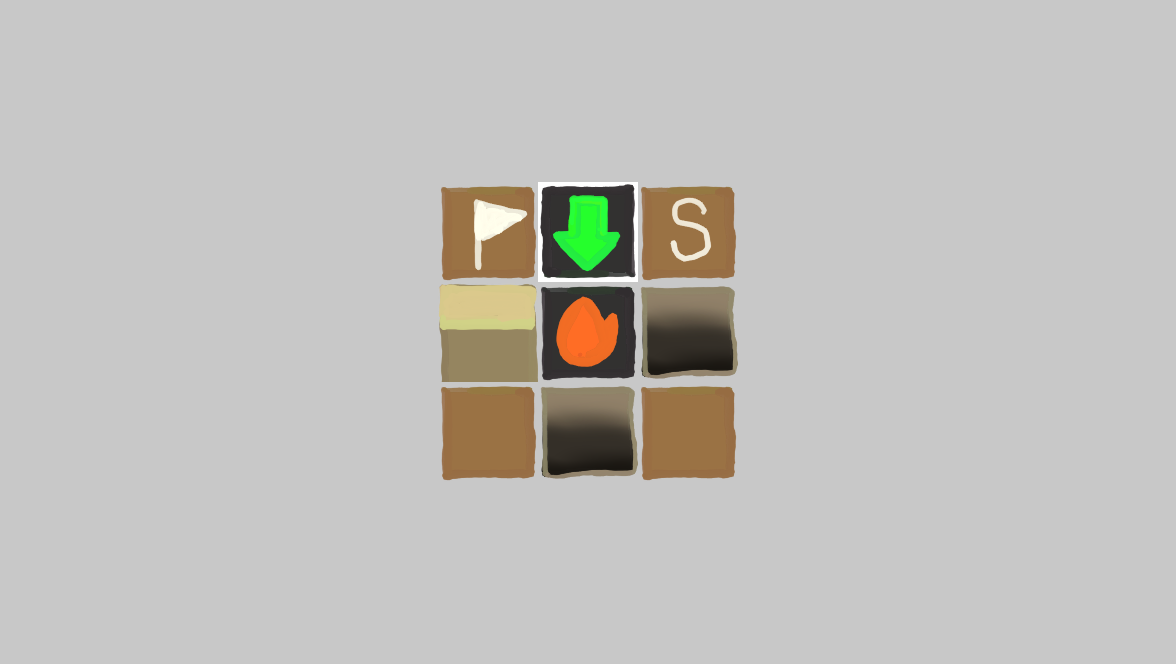
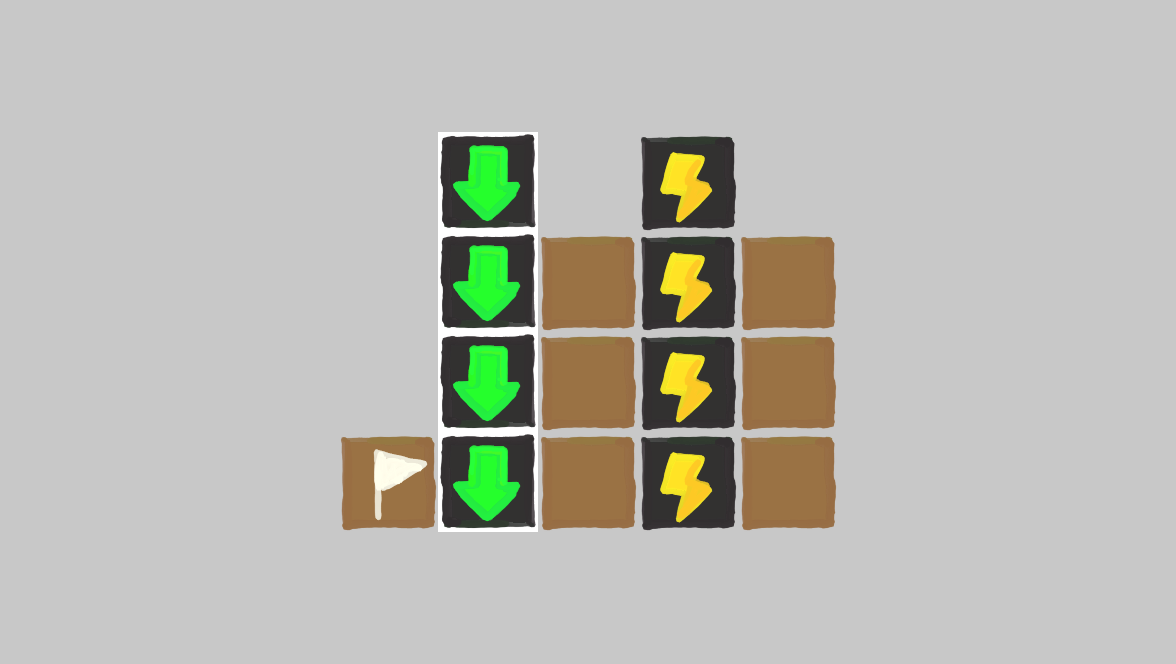
bugがなおらない

Changed region(s): [[0.2755, 0.1807, 0.7347, 0.8133]]

diff --git a/main.py b/main.py
@@ -20,7 +20,7 @@ sc_width = pygame.display.get_window_size()[0]
 sc_height = pygame.display.get_window_size()[1]
 
 #Player
-stage_num = 2
+stage_num = 4
 selected_stage = stageMap.stage_gene(stage_num,sc_width, sc_height)[0]
 
 chipimage = n
@@ -44,15 +44,15 @@ def tiling_chip(stage_num):
     gridsizey = len(map)
     t = "O"
     object_chip = map
-    for i in range(gridsizex):
-        for d in range(gridsizey):
-            t = map[d][i]
+    for x in range(gridsizex):
+        for y in range(gridsizey):
+            t = map[y][x]
             tile = create_chip_image(t) 
             tileX = tile.get_width()
             tileY = tile.get_height()
-            object_chip[d][i] = sprite_chip_class(t)
+            object_chip[y][x] = sprite_chip_class(t)
 
-            screen.blit(tile,(margin[0]+tileX*i, margin[1] + tileY*d))
+            screen.blit(tile,(margin[1]+tileX*x, margin[0] + tileY*y))
 
 class sprite_chip_class(pygame.sprite.Sprite):
     def __init__(self, chip_type) -> None:
@@ -89,16 +89,11 @@ class sprite_player_class(pygame.sprite.Sprite):
         self.rect = self.playerImage.get_rect()
         self.player_start_point = [6,4] # grid
         self.pixel_imalocation = [0, 0]
-        self.player_direction = [1,0] # Up[0,-1], Down[0,1], Left[-1,0], Right[1,0]
+        self.player_direction = [1,0] # [Y, X]で表記するUp[-1,0], Down[1,0], Left[0,-1], Right[0,1]
         self.player_status = ""
         self.player_HP = 20
 
-    # def player_move(self, x, y):
-    #     # ほぼ描画しかしてない
-    #     location = self.hamidasanai((x, y))
-    #     margin = stageMap.stage_gene(stage_num, sc_width, sc_height)[1]
-    #     screen.blit(self.playerImages,(location[0] + margin[0], location[1] + margin[1]))
-    #     # return location
+
     def draw(self):
         screen.blit(self.playerImage,self.rect)
 
@@ -108,46 +103,52 @@ class sprite_player_class(pygame.sprite.Sprite):
         chipImage = pygame.image.load('N.png')
         chipImage = pygame.transform.scale(chipImage,(100,100))
         speed  = 5
+        # 変数を計算する
         chipW = chipImage.get_width()
         chipH = chipImage.get_height()
         map_gridX = len(stage[0])
         map_gridY = len(stage)
         standingPointX = 0
         standingPointY = 0
+        # マス座標をステージのサイズに制限する
         location[0] = max(location[0], 1)
         location[0] = min(location[0], map_gridX)
         location[1] = max(location[1], 1)
         location[1] = min(location[1], map_gridY)
-
-        standingPointX = location[0]*chipW-(chipW/2)
-        standingPointY = location[1]*chipH-(chipH/3)
+        # ここからピクセル座標を計算し始める
+        # チップの画像サイズをもとにして計算
+        # 画像の右下を基準にして-(chipH/3)-(chipW/2)
+        # はマップチップの上に立ってるように見せかけるためにずらしてる
+        standingPointY = location[0]*chipW-(chipW/2)
+        standingPointX = location[1]*chipH-(chipH/3)
+        # 描画位置のために右上になるように計算する
         standingPointX -= (player_dummy_image.get_width()/2)
         standingPointY -= player_dummy_image.get_height()
-        mokuhyou = [standingPointX,standingPointY]
+        mokuhyou = [standingPointY,standingPointX]
         ret_mokuhyou = mokuhyou
         imalocation = self.pixel_imalocation
-        imalocationX = self.pixel_imalocation[0]
-        imalocationY = self.pixel_imalocation[1]
+        imalocationY = self.pixel_imalocation[0]
+        imalocationX = self.pixel_imalocation[1]
 
         mokuhyou[0] = mokuhyou[0] - imalocation[0]
-        imalocationX += numpy.sign(mokuhyou[0]) * min(abs(mokuhyou[0]), speed)
+        imalocationY += numpy.sign(mokuhyou[0]) * min(abs(mokuhyou[0]), speed)
         mokuhyou[1] = mokuhyou[1] - imalocation[1]
-        imalocationY += numpy.sign(mokuhyou[1]) * min(abs(mokuhyou[1]), speed)
+        imalocationX += numpy.sign(mokuhyou[1]) * min(abs(mokuhyou[1]), speed)
 
         margin = stageMap.stage_gene(stage_num, sc_width, sc_height)[1]
         self.rect = (imalocationX+margin[0], imalocationY+margin[1])
-        return (imalocationX, imalocationY), ret_mokuhyou
+        return (imalocationX, imalocationX), ret_mokuhyou
 
     def find_player_destination(self):
         # 現在位置、プレイヤーの向き、マップチップから目標マス座標を決める
         grid_location = []
         location = self.location
         stage  = selected_stage
-
-        print(location,stage)
-        zokusei = stageMap.chip_effect(stage[location[0]-1][location[1]-1])
-        if zokusei[0] == "turn":
-            self.player_direction = zokusei[1]
+        # print(location,stage)
+        zokusei = stageMap.chip_effect(stage[location[1]-1][location[0]-1])
+        testdback(str(zokusei), 4)
+        # if zokusei[0] == "turn":
+        #     self.player_direction = zokusei[1]
 
         direction = self.player_direction
         length = max(len(stage), len(stage[0]))
@@ -157,7 +158,10 @@ class sprite_player_class(pygame.sprite.Sprite):
                 location[0] += direction[0] 
                 location[1] += direction[1] 
                 chip = stage[location[0]][location[1]]
-                # text =  str("ある", chip, location)
+                zoc = stageMap.chip_effect(chip)
+                if zokusei[0] == "turn":
+                    self.player_direction = zokusei[1]
+
 
             except Exception as e:
                 continue
@@ -165,9 +169,10 @@ class sprite_player_class(pygame.sprite.Sprite):
         return grid_location
 
     def hamidasanai(self, location):
+        # [Y,X]
         player_dummy_image = self.playerImage
-        playerX = location[0]
-        playerY = location[1]
+        playerY = location[0]
+        playerX = location[1]
         if playerX <= 0:
             playerX = 0
         elif playerX>= sc_width- player_dummy_image.get_width():
@@ -188,10 +193,10 @@ class sprite_player_class(pygame.sprite.Sprite):
         startmap = stageMap.stage_gene(stage_num,sc_height,sc_width)[0]
         gridsizex = len(startmap[0])
         gridsizey = len(startmap)    
-        for i in range(gridsizex):
-            for d in range(gridsizey):
-                if startmap[d][i] == s:
-                    self.player_start_point = [1+i,1+d] #今はあれだけど逆だからあとで直してね
+        for x in range(gridsizex):
+            for y in range(gridsizey):
+                if startmap[y][x] == s:
+                    self.player_start_point = [y+1,x+1] #今はあれだけど逆だからあとで直してね
 
     def update(self):
 
@@ -205,9 +210,9 @@ class sprite_player_class(pygame.sprite.Sprite):
 
 
 def  testdback( text, gyou=1):
-    mozi = pygame.font.Font(None,50)
+    mozi = pygame.font.Font(None,40)
     mozimozi = mozi.render(text, True,(0,0,0))
-    screen.blit(mozimozi,[50,60*gyou])
+    screen.blit(mozimozi,[20,50*gyou])
 
 def puzzle_select():
     # 後でちゃんと書いてね
@@ -237,13 +242,13 @@ while running:
             if event.key == pygame.K_SPACE:
                 puzzle_state = 1 # 適当に書いている
             if event.key == pygame.K_LEFT:
-                object_player.player_direction = [-1,0] 
-            elif event.key == pygame.K_RIGHT:
-                object_player.player_direction = [1,0] 
-            elif event.key == pygame.K_UP:          
                 object_player.player_direction = [0,-1] 
-            elif event.key == pygame.K_DOWN:      
+            elif event.key == pygame.K_RIGHT:
                 object_player.player_direction = [0,1] 
+            elif event.key == pygame.K_UP:          
+                object_player.player_direction = [-1,0] 
+            elif event.key == pygame.K_DOWN:      
+                object_player.player_direction = [1,0] 
         if event.type == pygame.KEYUP:
             if event.key == pygame.K_LEFT or event.key == pygame.K_RIGHT :
                 continue

diff --git a/stageMap.py b/stageMap.py
@@ -13,7 +13,7 @@ def stage_select(stageNum):
         ],[
             [g,ad,s],
             [h,f,p],
-            [n,p,n]
+            [ar,p,au]
         ],[
             [o,p,o,o,n,g],
             [p,n,p,n,n,n],
@@ -42,24 +42,24 @@ def stage_gene(stage_No, sc_width, sc_height,scale =100):
     stage = stage_select(stage_No)
     stageW = len(stage[0])
     stageH = len(stage)
-    marginX = (sc_width-(stageW*W))/2
+    marginW = (sc_width-(stageW*W))/2
     marginH = (sc_height-(stageH*H))/2
-    margin = (marginX, marginH)
+    margin = (marginH, marginW)
 
     return stage, margin
 
 def chip_effect(type):
 
     # walk, dash, jump, drop, stop, turn
-
+    # location = [Y, X]
     Zokusei= {
-        au:("turn",[0,-1]),ad:("turn",[0,1]),al:("turn",[1,0]),ar:("turn",[-1,0])
+        au:("turn",[-1,0]),ad:("turn",[1,0]),al:("turn",[0,-1]),ar:("turn",[0,1])
         ,n:("walk",[0,0])
         ,h:("walk",[0,0])
         ,b:("jump",[0,0])
         ,f:("dash",[0,0])
         ,p:("drop",[0,0])
-        ,s:("walk",[0,0]), g:("stop",[0,0])
+        ,s:("walk",[0,0]), g:("stop",[0,0]), o:("stop",[0,0])
         
     }
 

diff --git a/array = [[0,0,0], [1,1,1], [2,2,2]].py b/array = [[0,0,0], [1,1,1], [2,2,2]].py
@@ -1,0 +1,12 @@
+array = [[0,0,0], 
+        [1,1,1], 
+        [2,2,2], 
+        [4,4,4]]
+
+gridsizex = len(array[0])
+gridsizey = len(array)
+location = [y, x]
+for x in range(gridsizex):
+    for y in range(gridsizey):
+        a = array[y][x]
+        print(array[y][x])
